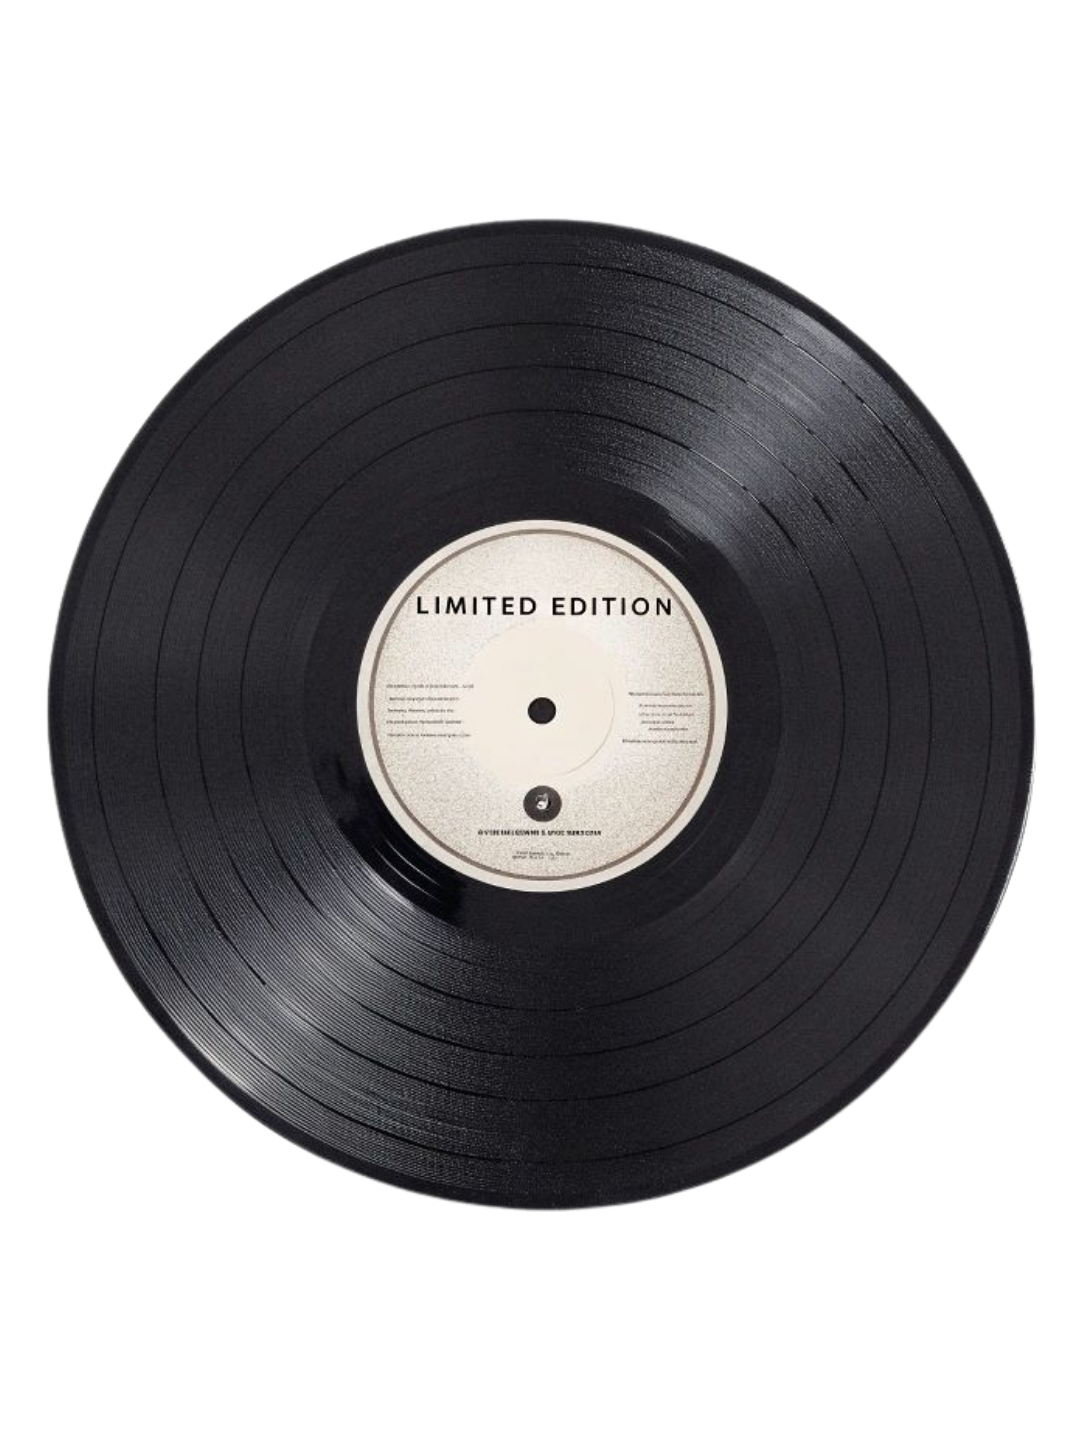
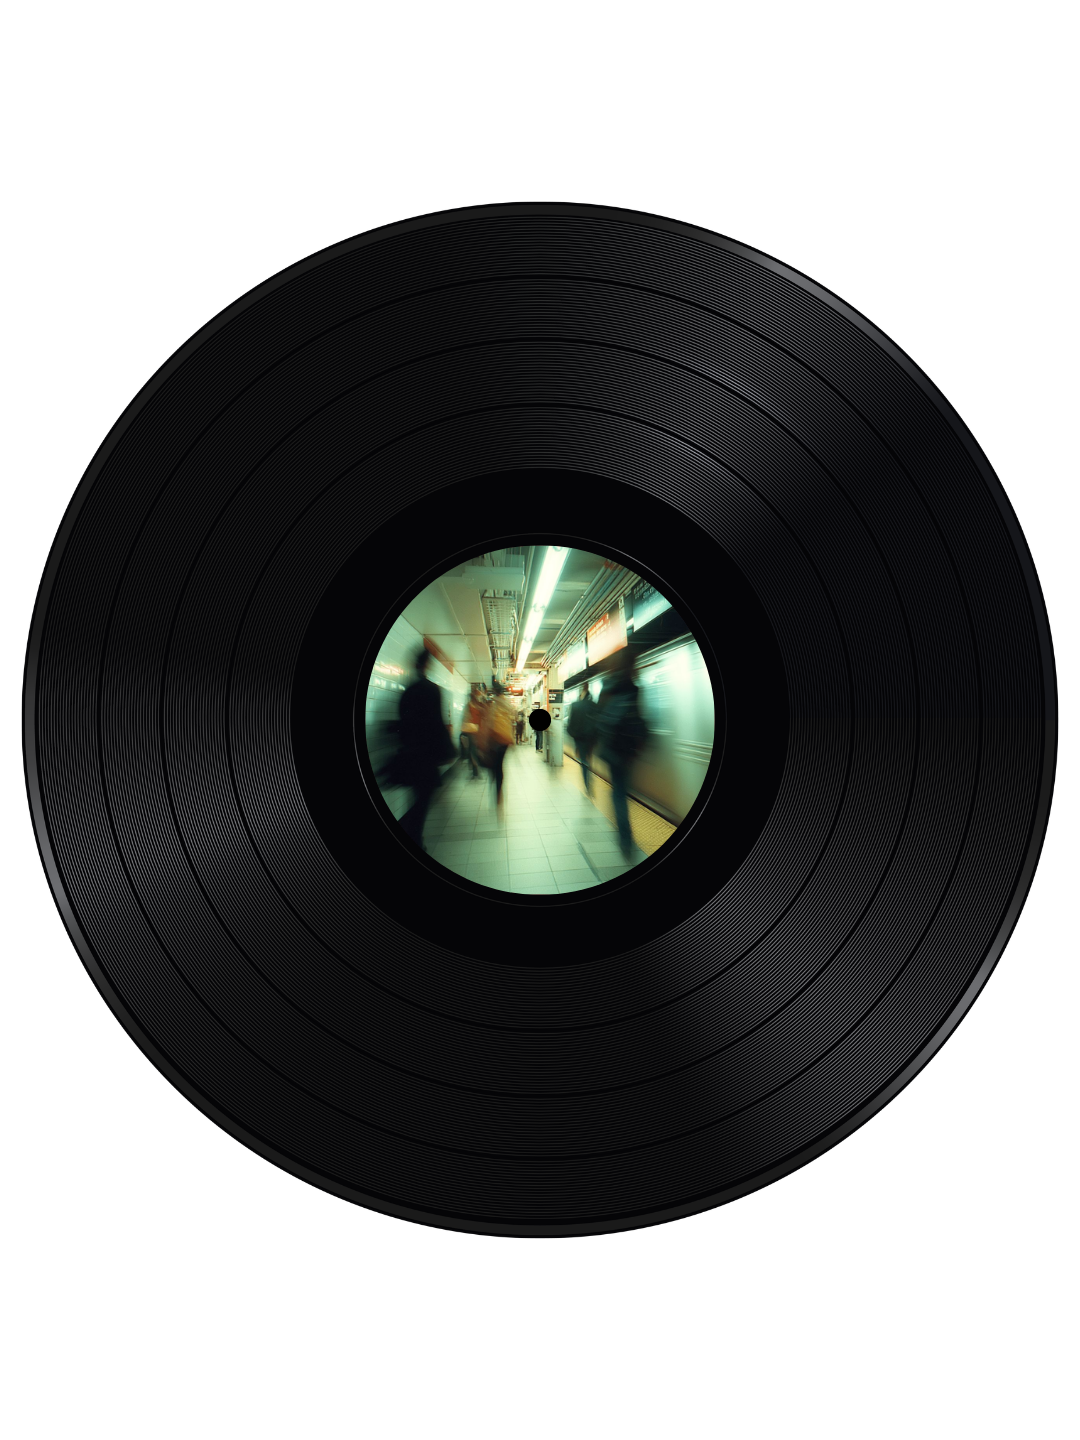
assets for splash effect populated

diff --git a/app/page.tsx b/app/page.tsx
@@ -1,7 +1,6 @@
 "use client";
 
 import { useRef } from "react";
-import Image from "next/image";
 import { motion } from "framer-motion";
 import gsap from "gsap";
 import { useGSAP } from "@gsap/react";
@@ -12,65 +11,83 @@ gsap.registerPlugin(ScrollTrigger);
 
 // 1. define scrapbook elements and their final splashed positions
 // animate them from x:0, y:0 (center) out to these coordinates.
+// x - higher value means more to the right, 
+// y - higher value means more down, 
+// negative values go left/up.
+// positive is clockwise rotation, negative is counterclockwise.
+//THIS IS TAKING TEW LOOOOOOOONG
 const scrapbookItems = [
-  { id: 1, src: "/cassette.png", alt: "Cassette", x: 250, y: -150, rotate: 5, width: 120 },
-  { id: 2, src: "/planeticket.png", alt: "Boarding Pass", x: -280, y: -20, rotate: -10, width: 200 },
-  { id: 3, src: "/coffee.png", alt: "Coffee", x: -160, y: -80, rotate: 15, width: 100 },
-  { id: 4, src: "/redheartpatch.png", alt: "Fabric Heart", x: 180, y: -50, rotate: -15, width: 80 },
-  { id: 5, src: "/domino.png", alt: "Domino", x: 120, y: 180, rotate: 0, width: 110 },
-  { id: 6, src: "/catstamp.png", alt: "Cat Stamp", x: -200, y: 120, rotate: -5, width: 90 },
-  //add rest of elements here. adjust x, y, and rotate values to match your layout.
+  { id: 1, src: "/cassette.png", alt: "Cassette", x: 200, y: -170, rotate: 5, width: 140 },
+  { id: 2, src: "/acecard.png", alt: "AceCard", x: -220, y: 40, rotate: -5, width: 100 },
+  { id: 3, src: "/catstamp.png", alt: "Cat Stamp", x: -330, y: 40, rotate: 0, width: 130 },
+  { id: 4, src: "/photography.png", alt: "Photography", x: -190, y: 170, rotate: 0, width: 120 },
+  { id: 5, src: "/devilbutton.png", alt: "Devil Button", x: -120, y: 210, rotate: -5, width: 80 },
+  { id: 6, src: "/domino.png", alt: "Domino", x: 0, y: 230, rotate: 5, width: 160 },
+  { id: 7, src: "/waxseal.png", alt: "Wax Seal", x: 190, y: 115, rotate: 10, width: 100 },
+  { id: 8, src: "/receipt.png", alt: "Receipt", x: 140, y: 220, rotate: 0, width: 100 },
+  { id: 9, src: "/fujistamp.png", alt: "Fujistamp", x: 250, y: 220, rotate: 0, width: 120 },
+  { id: 10, src: "/pinkheartbutton.png", alt: "Pink Heart Button", x: 280, y: 110, rotate: 0, width: 70 },
+  { id: 11, src: "/greentag.png", alt: "Green Tag", x: 224, y: -26, rotate: 3, width: 150 },
+  { id: 12, src: "/bouquet.png", alt: "Bouquet", x: 360, y: 60, rotate: 10, width: 200 },
+  { id: 13, src: "/breadtag.png", alt: "Bread Tag", x: 400, y: -100, rotate: 0, width: 80 },
+  { id: 14, src: "/bluestarpatch.png", alt: "Blue Star Patch", x: 315, y: -120, rotate: 16, width: 90 },
+  { id: 15, src: "/yellowheartpatch.png", alt: "Yellow Heart Patch", x: 180, y: -80, rotate: 10, width: 70 },
+  { id: 16, src: "/vinyl.png", alt: "Vinyl", x: 70, y: -230, rotate: 0, width: 125 },
+  { id: 17, src: "/flowerbutton.png", alt: "Flower Button", x: -50, y: -230, rotate: 0, width: 100 },
+  { id: 18, src: "/platenumber.png", alt: "Platenumber", x: -180, y: -200, rotate: 0, width: 170 },
+  { id: 19, src: "/coffee.png", alt: "Coffee", x: -200, y: -100, rotate: 0, width: 120 },
+  { id: 20, src: "/planeticket.png", alt: "Planeticket", x: -380, y: -100, rotate: 0, width: 250 },
+  { id: 21, src: "/pinkbow.png", alt: "Pink Bow", x: -310, y: 170, rotate: -5, width: 140 },
+  { id: 22, src: "/redheartpatch.png", alt: "Red Heart Patch", x: -440, y: 40, rotate: -45, width: 130 },
+  { id: 23, src: "/redtile.png", alt: "Red Tile", x: -320, y: -200, rotate: 0, width: 100 }
 ];
 
 export default function Home() {
   const containerRef = useRef<HTMLDivElement>(null);
   const vinylRef = useRef<HTMLImageElement>(null);
 
-  // 2. GSAP ScrollTrigger for the Vinyl Record
+  // 2. GSAP ScrollTrigger for the vinyl Record
   useGSAP(() => {
     gsap.to(vinylRef.current, {
       rotation: 360,
-      ease: "none", // Linear spinning
+      ease: "none", // linear spinning
       scrollTrigger: {
         trigger: containerRef.current,
-        start: "top top", // Start spinning when top of page hits top of viewport
-        end: "+=1500", // Keep spinning as we scroll down 1500px
-        scrub: 1, // Smooth scrubbing effect, tied to scrollbar
+        start: "top top", //start spinning when top of page hits top of viewport
+        end: "+=1500", // keep spinning as we scroll down 1500px
+        scrub: 1, // smooth scrubbing effect, tied to scrollbar
       },
     });
   }, { scope: containerRef });
 
   return (
-    <div ref={containerRef} className="min-h-[200vh] relative overflow-hidden font-serif">
+    <div ref={containerRef} className="min-h-[200vh] relative overflow-hidden">
       
       {/* --- HEADER NAVIGATION --- */}
       <header className="w-full flex justify-between items-center px-12 py-8 relative z-50">
-        <div className="text-3xl font-bold text-red-900 leading-tight tracking-tighter">
-          zsofia<br />antolijao
-        </div>
-        <nav className="flex gap-12 text-zinc-600 text-lg tracking-wide">
-          <a href="#" className="font-bold text-black border-b-2 border-black">home</a>
-          <a href="#" className="hover:text-black transition-colors">about</a>
-          <a href="#" className="hover:text-black transition-colors">works</a>
-          <a href="#" className="hover:text-black transition-colors">shop</a>
-          <a href="#" className="hover:text-black transition-colors">contact</a>
+        <img src="/logo.png" alt="Zsofia Antolijao Logo" className="w-50 h-auto object-contain"/>
+        
+        <nav className="flex gap-20 text-slate-500 text-xl font-[family-name:var(--font-playfair)] tracking-wide">
+          <a href="#" className="font-bold text-slate-900 border-b-2 border-slate-900">home</a>
+          <a href="#" className="hover:text-slate-800 transition-colors">about</a>
+          <a href="#" className="hover:text-slate-800 transition-colors">works</a>
+          <a href="#" className="hover:text-slate-800 transition-colors">shop</a>
+          <a href="#" className="hover:text-slate-800 transition-colors">contact</a>
         </nav>
       </header>
 
       {/* --- HERO COLLAGE SECTION --- */}
       <section className="relative w-full h-[80vh] flex items-center justify-center mt-10">
         
-        {/* The Central Profile Image */}
+        {/* profile image sa center */}
         <motion.div 
           initial={{ scale: 0, opacity: 0 }}
           animate={{ scale: 1, opacity: 1 }}
           transition={{ duration: 0.8, ease: "easeOut" }}
-          className="relative z-20 w-72 h-72 rounded-full overflow-hidden border-4 border-[#FCFAF8] shadow-2xl"
+          className="relative z-20 w-80 h-80 rounded-full overflow-hidden border-[6px] border-[#FCFAF8] shadow-2xl"
         >
-           {/* Replace this div with your actual Image component later! */}
-          <div className="w-full h-full bg-zinc-300 flex items-center justify-center text-sm text-zinc-500">
-            [Profile.png]
-          </div>
+           {/* PLACEHOLDER IMAGE */}
+           <img src="/profile.png" alt="Zsofia Antolijao" className="w-full h-full object-cover"/>
         </motion.div>
 
         {/* The Splashing Scrapbook Elements */}
@@ -87,18 +104,16 @@ export default function Home() {
             }}
             transition={{ 
               duration: 1, 
-              delay: 0.2 + (index * 0.1), // Stagger the splash effect
-              type: "spring", // Gives it a nice little bounce when it lands
+              delay: 0.2 + (index * 0.1), // stagger the splash effect
+              type: "spring", // nice little bounce when it lands
               stiffness: 100, 
-              damping: 15
+              damping: 10
             }}
             className="absolute z-10"
             style={{ width: item.width }}
           >
-             {/* Using a placeholder div. You will swap this for: <img src={item.src} alt={item.alt} className="w-full h-auto drop-shadow-md" /> */}
-            <div className="w-full h-24 bg-zinc-400/50 rounded-md border border-zinc-500 flex items-center justify-center text-xs text-center p-2 backdrop-blur-sm">
-              {item.alt}
-            </div>
+             {/* Using a PLACEHOLDER DIV. You will swap this for: <img src={item.src} alt={item.alt} className="w-full h-auto drop-shadow-md" /> */}
+            <img src={item.src} alt={item.alt} className="w-full h-auto drop-shadow-xl select-none pointer-events-none" />
           </motion.div>
         ))}
 
@@ -108,14 +123,14 @@ export default function Home() {
 
       {/* --- SPINNING VINYL RECORD --- */}
       <div className="fixed -bottom-48 -left-48 z-40 pointer-events-none">
-        {/* Placeholder for Vinyl */}
+        {/* PLACEHOLDER VINYL */}
         <img 
           ref={vinylRef}
-          src="https://upload.wikimedia.org/wikipedia/commons/thumb/0/02/Vinyl_record.svg/1024px-Vinyl_record.svg.png" 
+          src="/vinyl.png" 
           alt="Spinning Vinyl" 
           className="w-[500px] h-[500px] opacity-90 drop-shadow-2xl"
         />
-        <div className="absolute top-1/2 left-[120%] -translate-y-1/2 -rotate-45 text-xl font-serif text-zinc-500 tracking-widest whitespace-nowrap">
+        <div className="absolute top-1/2 left-[120%] -translate-y-1/2 -rotate-45 text-xl font-[family-name:var(--font-playfair)] text-slate-500 tracking-widest whitespace-nowrap italic">
           scroll down
         </div>
       </div>
